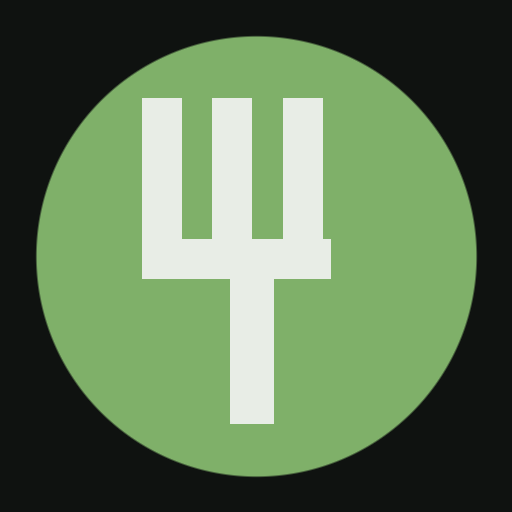
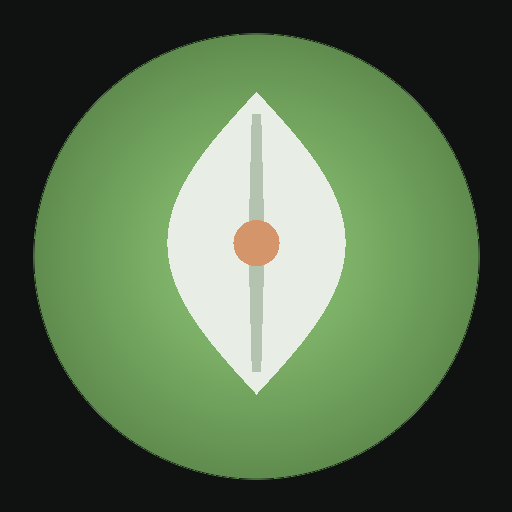
Переработаны иконка и pull-to-refresh
- Иконка: зелёный круг с градиентом + белый лист + оранжевая прожилка
- Pull-to-refresh: анимированный росток вместо кружка со стрелкой
  · стебель растёт пропорционально свайпу
  · листья появляются на 42% хода
  · оранжевый бутон — на 70%, лепестки — на 88%
  · цветение (bloom + spin) при отпускании после порога

Changed region(s): [[0.0625, 0.0625, 0.9375, 0.9375]]

diff --git a/index.html b/index.html
@@ -106,26 +106,25 @@
   body { padding-bottom: env(safe-area-inset-bottom, 16px); }
   header { padding-top: max(40px, calc(env(safe-area-inset-top) + 16px)); }
 
-  /* Pull-to-refresh индикатор */
+  /* ── Pull-to-refresh: росток ── */
   #ptr {
     position: fixed;
-    top: -56px;
+    top: -76px;
     left: 50%;
     transform: translateX(-50%);
-    width: 44px; height: 44px;
-    background: var(--accent);
-    border-radius: 50%;
-    display: flex; align-items: center; justify-content: center;
-    color: #0f1210;
+    width: 44px; height: 76px;
     z-index: 999;
-    transition: top 0.18s ease;
-    box-shadow: 0 4px 20px rgba(0,0,0,0.5);
+    pointer-events: none;
+    opacity: 0;
   }
-  #ptr.show { top: calc(env(safe-area-inset-top, 0px) + 14px); }
-  #ptr svg { width: 22px; height: 22px; transition: transform 0.18s; }
-  #ptr.ready svg { transform: rotate(180deg); }
-  #ptr.spin svg { animation: ptr-spin 0.5s linear infinite; }
-  @keyframes ptr-spin { to { transform: rotate(360deg); } }
+  #ptr.blooming {
+    animation: sprout-bloom 0.65s cubic-bezier(0.34, 1.56, 0.64, 1) forwards;
+  }
+  @keyframes sprout-bloom {
+    0%   { transform: translateX(-50%) scale(1)   rotate(0deg);  opacity: 1; }
+    45%  { transform: translateX(-50%) scale(1.45) rotate(14deg); opacity: 1; }
+    100% { transform: translateX(-50%) scale(0.15) rotate(50deg); opacity: 0; }
+  }
 </style>
 </head>
 <body>
@@ -148,11 +147,30 @@
   </div>
 </main>
 
-<!-- Pull-to-refresh -->
-<div id="ptr">
-  <svg viewBox="0 0 24 24" fill="none" stroke="currentColor" stroke-width="2.5" stroke-linecap="round" stroke-linejoin="round">
-    <path d="M21 12a9 9 0 1 1-6.219-8.56"/>
-    <polyline points="21 3 21 9 15 9"/>
+<!-- Pull-to-refresh: росток -->
+<div id="ptr" aria-hidden="true">
+  <svg viewBox="0 0 44 76" fill="none" xmlns="http://www.w3.org/2000/svg">
+    <!-- стебелёк -->
+    <line id="spr-stem" x1="22" y1="74" x2="22" y2="50"
+          stroke="#7fb069" stroke-width="2.5" stroke-linecap="round"/>
+    <!-- левый лист -->
+    <path id="spr-leaf-l"
+          d="M22 62 C13 59 7 51 11 43 C13 41 22 45 22 52 Z"
+          fill="#7fb069" opacity="0"/>
+    <!-- правый лист -->
+    <path id="spr-leaf-r"
+          d="M22 55 C31 52 37 44 33 36 C31 34 22 38 22 45 Z"
+          fill="#5a9a42" opacity="0"/>
+    <!-- бутон -->
+    <circle id="spr-bud" cx="22" cy="44" r="5.5" fill="#d4956a" opacity="0"/>
+    <!-- лепестки (появляются в конце) -->
+    <g id="spr-petals" opacity="0">
+      <circle cx="22" cy="34" r="4"   fill="#d4956a"/>
+      <circle cx="29" cy="40" r="3.2" fill="#d4956a" opacity="0.75"/>
+      <circle cx="15" cy="40" r="3.2" fill="#d4956a" opacity="0.75"/>
+      <circle cx="28" cy="49" r="2.5" fill="#7fb069" opacity="0.6"/>
+      <circle cx="16" cy="49" r="2.5" fill="#7fb069" opacity="0.6"/>
+    </g>
   </svg>
 </div>
 
@@ -162,36 +180,60 @@
     navigator.serviceWorker.register('/health_food/sw.js', { scope: '/health_food/' });
   }
 
-  // Pull-to-refresh
+  // ── Pull-to-refresh: росток ──
   (function () {
-    const ptr = document.getElementById('ptr');
-    const THRESHOLD = 72;
+    const ptr    = document.getElementById('ptr');
+    const stem   = document.getElementById('spr-stem');
+    const leafL  = document.getElementById('spr-leaf-l');
+    const leafR  = document.getElementById('spr-leaf-r');
+    const bud    = document.getElementById('spr-bud');
+    const petals = document.getElementById('spr-petals');
+    const THRESHOLD = 82, STEM_REST = 50, STEM_FULL = 20;
     let startY = 0, delta = 0, active = false;
 
+    function draw(p) {
+      ptr.style.top     = (-76 + p * 90) + 'px';
+      ptr.style.opacity = Math.min(p * 2.5, 1);
+      const sy = STEM_REST - (STEM_REST - STEM_FULL) * p;
+      stem.setAttribute('y2', sy);
+      bud.setAttribute('cy', sy - 6);
+      const lp = Math.max(0, (p - 0.42) / 0.58);
+      leafL.style.opacity = lp;
+      leafR.style.opacity = lp * 0.85;
+      const bp = Math.max(0, (p - 0.70) / 0.30);
+      bud.style.opacity    = bp;
+      petals.style.opacity = Math.max(0, (p - 0.88) / 0.12);
+    }
+
+    function retract() {
+      ptr.style.transition = 'top .28s ease, opacity .22s ease';
+      ptr.style.top = '-76px'; ptr.style.opacity = '0';
+      setTimeout(() => {
+        ptr.style.cssText = '';
+        stem.setAttribute('y2', STEM_REST);
+        bud.setAttribute('cy', STEM_REST - 6);
+        [leafL, leafR, bud, petals].forEach(el => (el.style.opacity = '0'));
+      }, 300);
+    }
+
     document.addEventListener('touchstart', e => {
-      if (window.scrollY === 0) { startY = e.touches[0].clientY; active = true; }
+      if (window.scrollY !== 0) return;
+      startY = e.touches[0].clientY; active = true;
+      ptr.style.cssText = 'transition:none';
     }, { passive: true });
 
     document.addEventListener('touchmove', e => {
       if (!active) return;
       delta = Math.max(0, e.touches[0].clientY - startY);
-      if (delta > 10) {
-        ptr.classList.add('show');
-        if (delta > THRESHOLD) ptr.classList.add('ready');
-        else ptr.classList.remove('ready');
-      }
+      draw(Math.min(delta / THRESHOLD, 1));
     }, { passive: true });
 
     document.addEventListener('touchend', () => {
-      if (!active) return;
-      active = false;
+      if (!active) return; active = false;
       if (delta > THRESHOLD) {
-        ptr.classList.remove('ready');
-        ptr.classList.add('spin');
-        setTimeout(() => location.reload(), 450);
-      } else {
-        ptr.classList.remove('show', 'ready');
-      }
+        ptr.classList.add('blooming');
+        setTimeout(() => location.reload(), 680);
+      } else { retract(); }
       delta = 0;
     });
   })();

diff --git a/menus/2026/week_2026-04-22_vt-ch.html b/menus/2026/week_2026-04-22_vt-ch.html
@@ -543,26 +543,25 @@
   .day-col.past .day-label { color: var(--text-dim); }
   .day-col.past .card-front { opacity: 0.55; }
 
-  /* Pull-to-refresh */
+  /* ── Pull-to-refresh: росток ── */
   #ptr {
     position: fixed;
-    top: -56px;
+    top: -76px;
     left: 50%;
     transform: translateX(-50%);
-    width: 44px; height: 44px;
-    background: var(--accent);
-    border-radius: 50%;
-    display: flex; align-items: center; justify-content: center;
-    color: #0f1210;
+    width: 44px; height: 76px;
     z-index: 999;
-    transition: top 0.18s ease;
-    box-shadow: 0 4px 20px rgba(0,0,0,0.5);
+    pointer-events: none;
+    opacity: 0;
   }
-  #ptr.show { top: calc(env(safe-area-inset-top, 0px) + 14px); }
-  #ptr svg { width: 22px; height: 22px; transition: transform 0.18s; }
-  #ptr.ready svg { transform: rotate(180deg); }
-  #ptr.spin svg { animation: ptr-spin 0.5s linear infinite; }
-  @keyframes ptr-spin { to { transform: rotate(360deg); } }
+  #ptr.blooming {
+    animation: sprout-bloom 0.65s cubic-bezier(0.34, 1.56, 0.64, 1) forwards;
+  }
+  @keyframes sprout-bloom {
+    0%   { transform: translateX(-50%) scale(1)    rotate(0deg);  opacity: 1; }
+    45%  { transform: translateX(-50%) scale(1.45) rotate(14deg); opacity: 1; }
+    100% { transform: translateX(-50%) scale(0.15) rotate(50deg); opacity: 0; }
+  }
 </style>
 </head>
 <body>
@@ -1247,11 +1246,25 @@
   </div>
 </section>
 
-<!-- Pull-to-refresh индикатор -->
-<div id="ptr">
-  <svg viewBox="0 0 24 24" fill="none" stroke="currentColor" stroke-width="2.5" stroke-linecap="round" stroke-linejoin="round">
-    <path d="M21 12a9 9 0 1 1-6.219-8.56"/>
-    <polyline points="21 3 21 9 15 9"/>
+<!-- Pull-to-refresh: росток -->
+<div id="ptr" aria-hidden="true">
+  <svg viewBox="0 0 44 76" fill="none" xmlns="http://www.w3.org/2000/svg">
+    <line id="spr-stem" x1="22" y1="74" x2="22" y2="50"
+          stroke="#7fb069" stroke-width="2.5" stroke-linecap="round"/>
+    <path id="spr-leaf-l"
+          d="M22 62 C13 59 7 51 11 43 C13 41 22 45 22 52 Z"
+          fill="#7fb069" opacity="0"/>
+    <path id="spr-leaf-r"
+          d="M22 55 C31 52 37 44 33 36 C31 34 22 38 22 45 Z"
+          fill="#5a9a42" opacity="0"/>
+    <circle id="spr-bud" cx="22" cy="44" r="5.5" fill="#d4956a" opacity="0"/>
+    <g id="spr-petals" opacity="0">
+      <circle cx="22" cy="34" r="4"   fill="#d4956a"/>
+      <circle cx="29" cy="40" r="3.2" fill="#d4956a" opacity="0.75"/>
+      <circle cx="15" cy="40" r="3.2" fill="#d4956a" opacity="0.75"/>
+      <circle cx="28" cy="49" r="2.5" fill="#7fb069" opacity="0.6"/>
+      <circle cx="16" cy="49" r="2.5" fill="#7fb069" opacity="0.6"/>
+    </g>
   </svg>
 </div>
 
@@ -1328,36 +1341,60 @@
     navigator.serviceWorker.register('/health_food/sw.js', { scope: '/health_food/' });
   }
 
-  // ── Pull-to-refresh ──
+  // ── Pull-to-refresh: росток ──
   (function () {
-    const ptr = document.getElementById('ptr');
-    const THRESHOLD = 72;
+    const ptr    = document.getElementById('ptr');
+    const stem   = document.getElementById('spr-stem');
+    const leafL  = document.getElementById('spr-leaf-l');
+    const leafR  = document.getElementById('spr-leaf-r');
+    const bud    = document.getElementById('spr-bud');
+    const petals = document.getElementById('spr-petals');
+    const THRESHOLD = 82, STEM_REST = 50, STEM_FULL = 20;
     let startY = 0, delta = 0, active = false;
 
+    function draw(p) {
+      ptr.style.top     = (-76 + p * 90) + 'px';
+      ptr.style.opacity = Math.min(p * 2.5, 1);
+      const sy = STEM_REST - (STEM_REST - STEM_FULL) * p;
+      stem.setAttribute('y2', sy);
+      bud.setAttribute('cy', sy - 6);
+      const lp = Math.max(0, (p - 0.42) / 0.58);
+      leafL.style.opacity = lp;
+      leafR.style.opacity = lp * 0.85;
+      const bp = Math.max(0, (p - 0.70) / 0.30);
+      bud.style.opacity    = bp;
+      petals.style.opacity = Math.max(0, (p - 0.88) / 0.12);
+    }
+
+    function retract() {
+      ptr.style.transition = 'top .28s ease, opacity .22s ease';
+      ptr.style.top = '-76px'; ptr.style.opacity = '0';
+      setTimeout(() => {
+        ptr.style.cssText = '';
+        stem.setAttribute('y2', STEM_REST);
+        bud.setAttribute('cy', STEM_REST - 6);
+        [leafL, leafR, bud, petals].forEach(el => (el.style.opacity = '0'));
+      }, 300);
+    }
+
     document.addEventListener('touchstart', e => {
-      if (window.scrollY === 0) { startY = e.touches[0].clientY; active = true; }
+      if (window.scrollY !== 0) return;
+      startY = e.touches[0].clientY; active = true;
+      ptr.style.cssText = 'transition:none';
     }, { passive: true });
 
     document.addEventListener('touchmove', e => {
       if (!active) return;
       delta = Math.max(0, e.touches[0].clientY - startY);
-      if (delta > 10) {
-        ptr.classList.add('show');
-        if (delta > THRESHOLD) ptr.classList.add('ready');
-        else ptr.classList.remove('ready');
-      }
+      draw(Math.min(delta / THRESHOLD, 1));
     }, { passive: true });
 
     document.addEventListener('touchend', () => {
-      if (!active) return;
-      active = false;
+      if (!active) return; active = false;
       if (delta > THRESHOLD) {
-        ptr.classList.remove('ready');
-        ptr.classList.add('spin');
-        setTimeout(() => location.reload(), 450);
-      } else {
-        ptr.classList.remove('show', 'ready');
-      }
+        ptr.classList.add('blooming');
+        setTimeout(() => location.reload(), 680);
+      } else { retract(); }
       delta = 0;
     });
   })();
